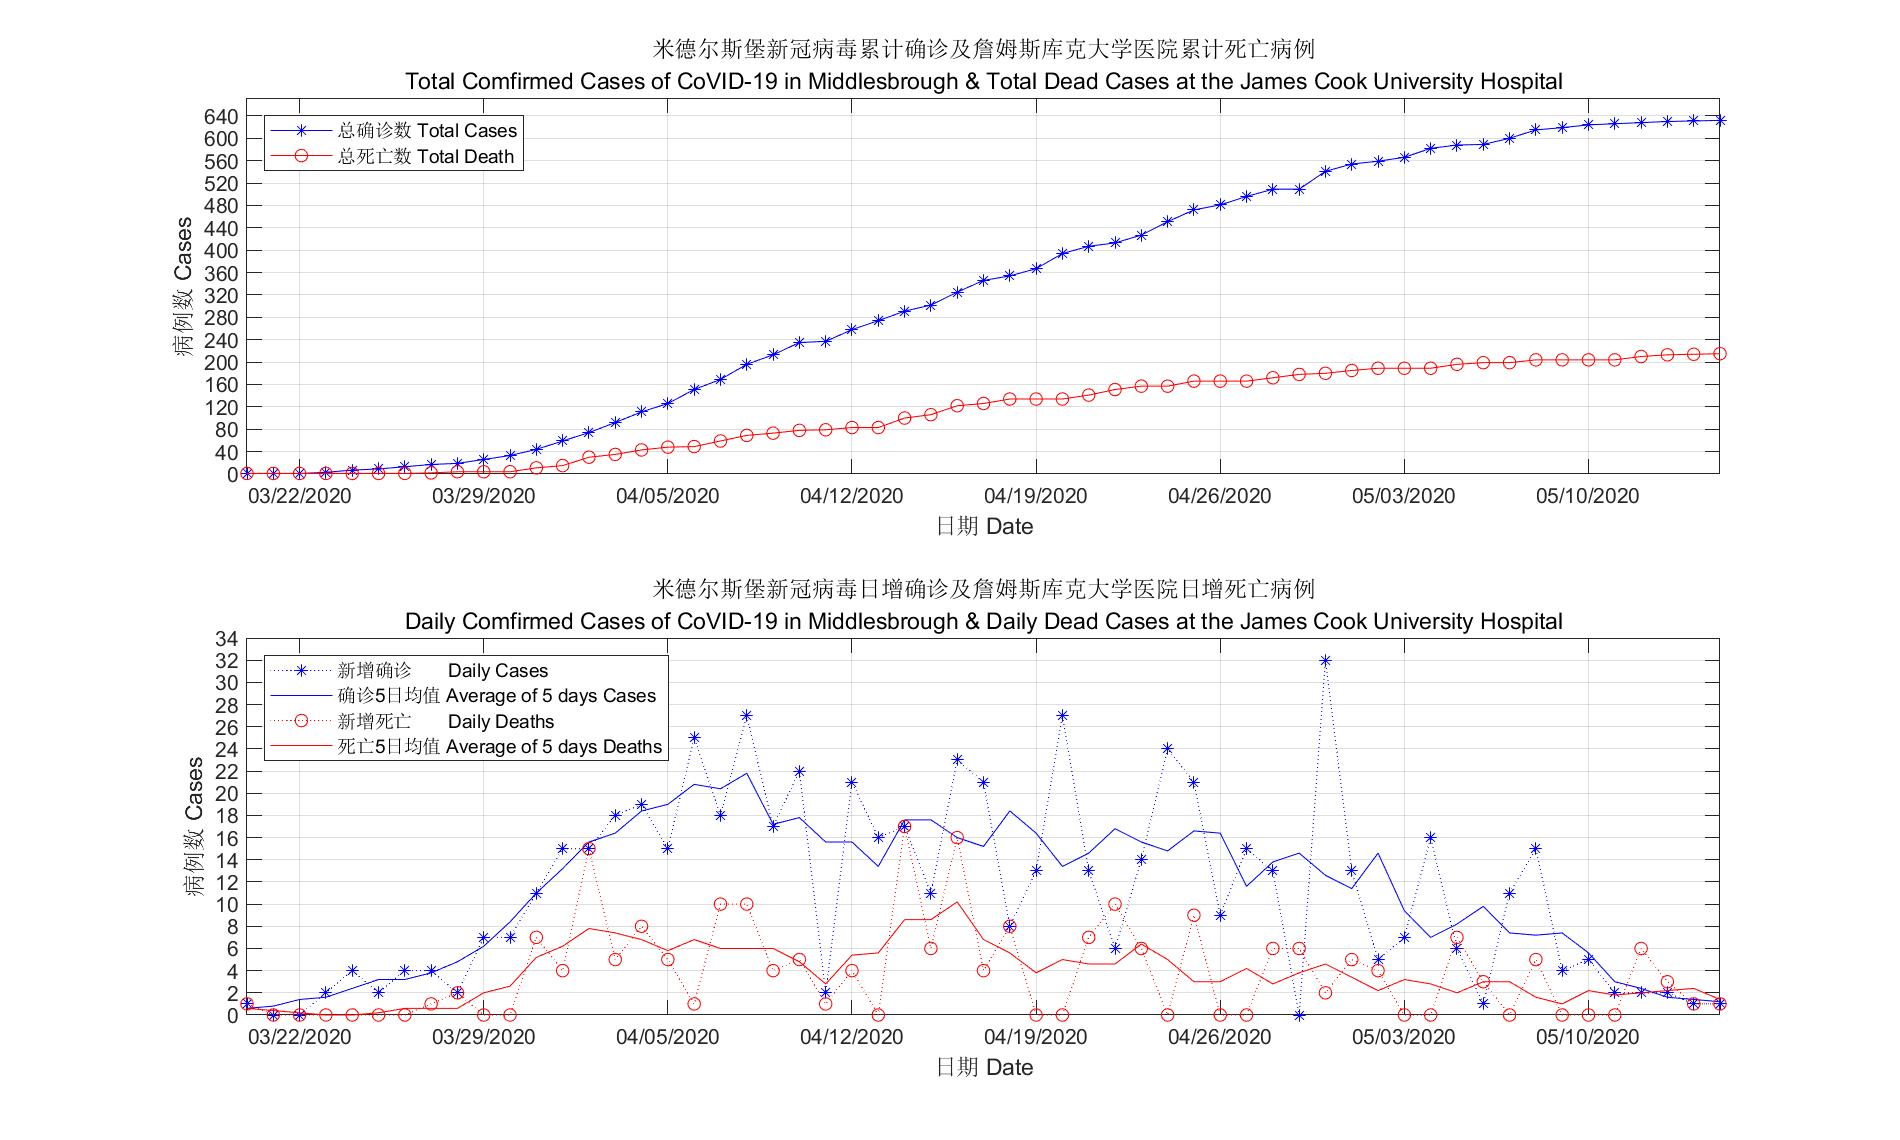
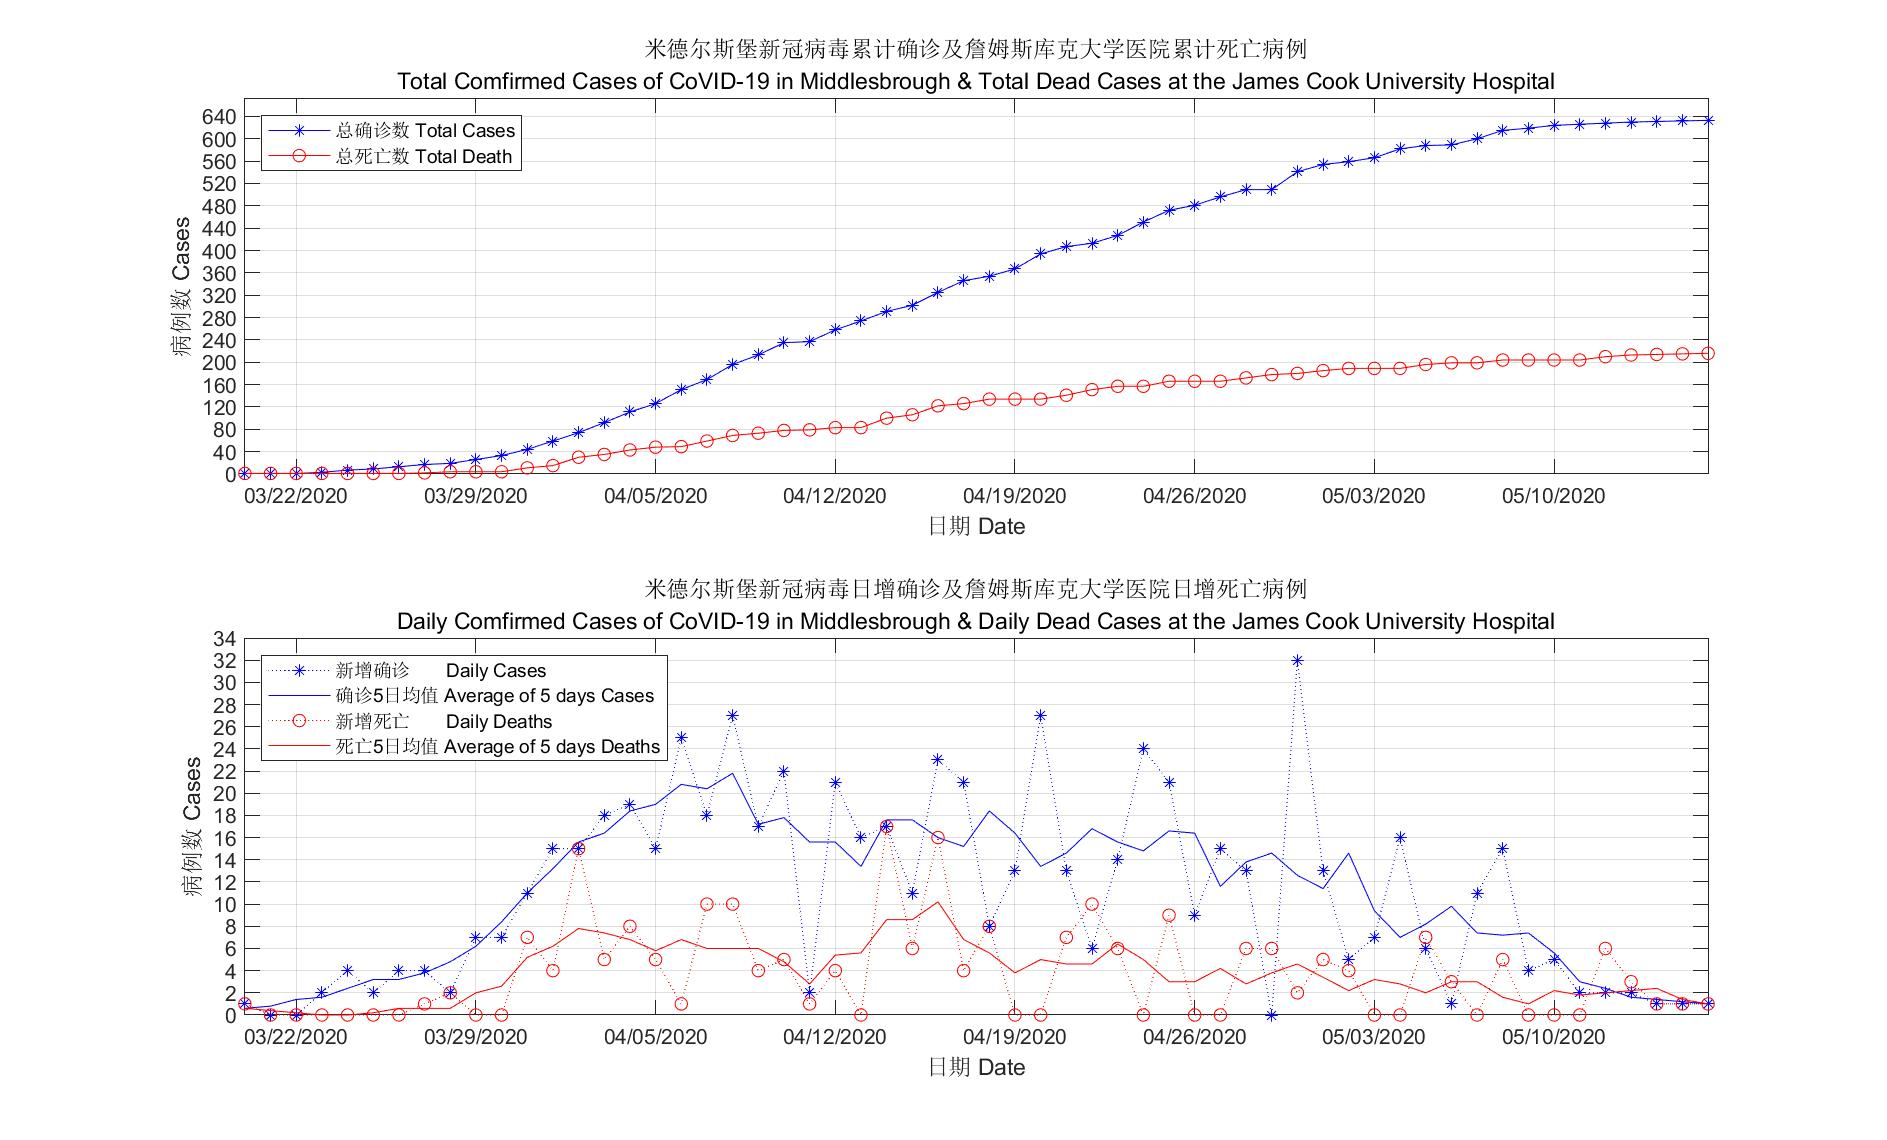
Update

diff --git a/Covid19_TS1.py b/Covid19_TS1.py
@@ -11,11 +11,12 @@ from matplotlib.ticker import MultipleLocator, FormatStrFormatter
 #cases data from the UK government
 cases = [1, 1, 1, 3, 7, 9, 13, 17, 19, 26, 33, 44, 59, 74, 92, 111, 126, 151, 169, 196, 213,\
     235, 237, 258, 274, 291, 302, 325, 346, 354, 367, 394, 407, 413, 427, 451, 472, 481, 496,\
-    509, 509, 541, 554, 559, 566, 582, 588, 589, 600, 615, 619, 624, 626, 628, 630, 631, 632]
+    509, 509, 541, 554, 559, 566, 582, 588, 589, 600, 615, 619, 624, 626, 628, 630, 631, 632,\
+    633]
 #deaths data from NHS
 dcases = [1, 1, 1, 1, 1, 1, 1, 2, 4, 4, 4, 11, 15, 30, 35, 43, 48, 49, 59, 69, 73, 78, 79, 83,\
     83, 100, 106, 122, 126, 134, 134, 134, 141, 151, 157, 157, 166, 166, 166, 172, 178, 180,\
-    185, 189, 189, 189, 196, 199, 199, 204, 204, 204, 204, 210, 213, 214, 215]
+    185, 189, 189, 189, 196, 199, 199, 204, 204, 204, 204, 210, 213, 214, 215, 216]
 
 #Initial
 #Date config

diff --git a/covid19_TS1.m b/covid19_TS1.m
@@ -8,11 +8,11 @@
 cases = [1 1 1 3 7 9 13 17 19 26 33 44 59 74 92 111 126 151 169 196 213 ...
     235 237 258 274 291 302 325 346 354 367 394 407 413 427 451 472 481 ...
     496 509 509 541 554 559 566 582 588 589 600 615 619 624 626 628 630 ...
-    631 632];
+    631 632 633];
 %deaths data from NHS
 dcases = [1 1 1 1 1 1 1 2 4 4 4 11 15 30 35 43 48 49 59 69 73 78 79 83 ...
     83 100 106 122 126 134 134 134 141 151 157 157 166 166 166 172 178 ...
-    180 185 189 189 189 196 199 199 204 204 204 204 210 213 214 215];
+    180 185 189 189 189 196 199 199 204 204 204 204 210 213 214 215 216];
 
 %Initial
 %Date config
